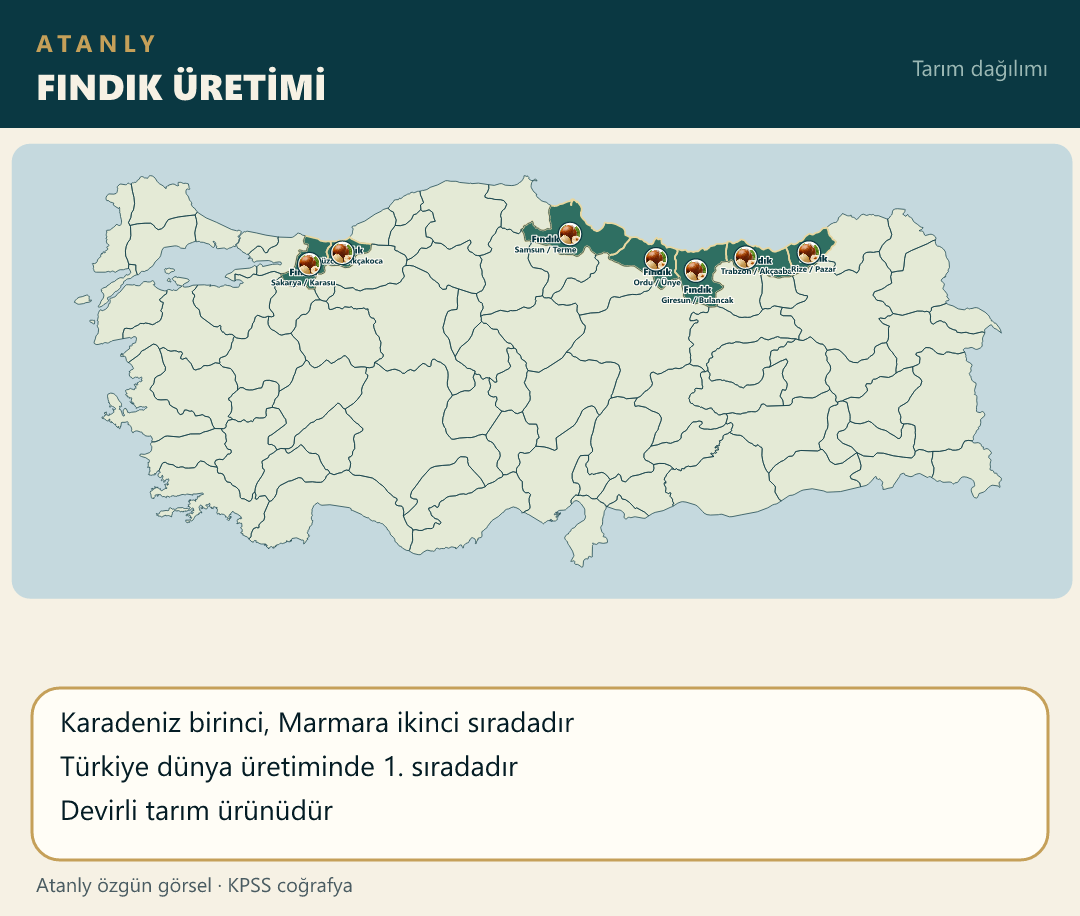
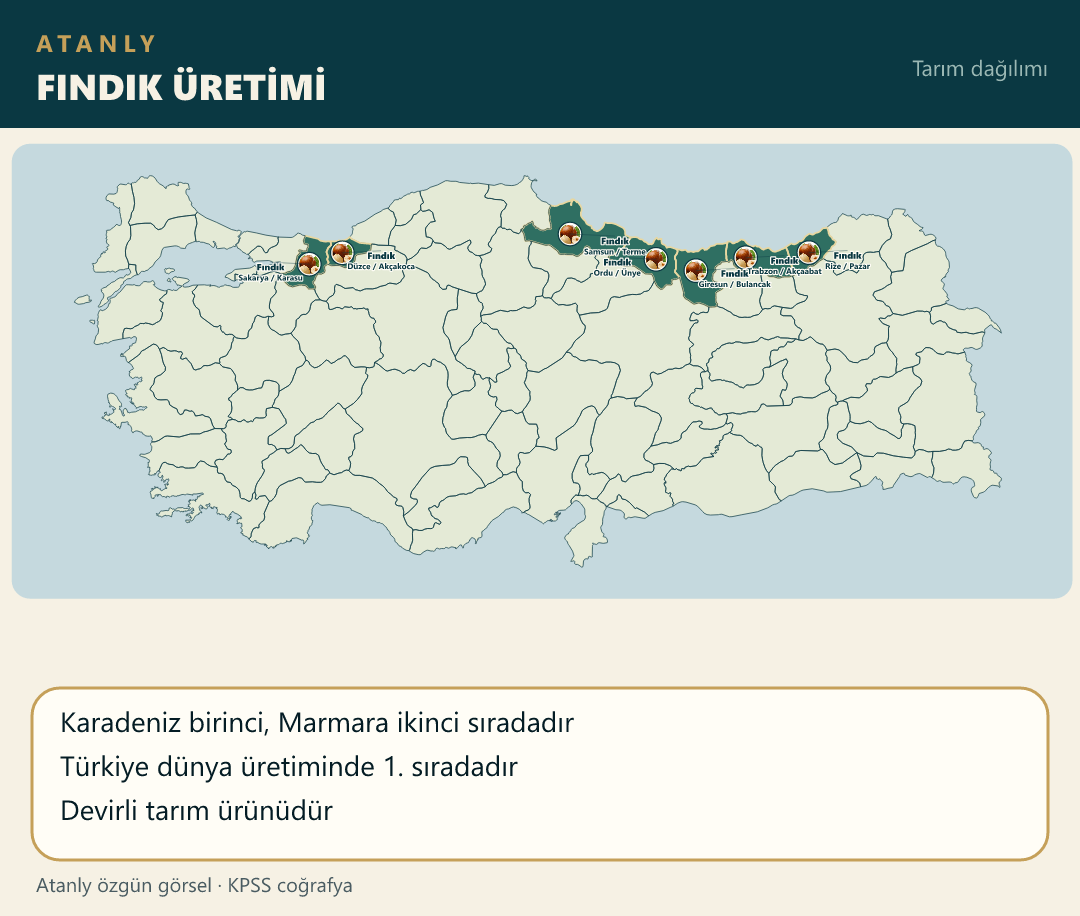
Keep hazelnut labels beside pins so they do not cover each other.

Changed region(s): [[0.4889, 0.2445, 0.7944, 0.3362], [0.2139, 0.2751, 0.3972, 0.3362]]

diff --git a/scripts/build-atanly-maps.js b/scripts/build-atanly-maps.js
@@ -411,13 +411,31 @@ function spreadSameCell(pts) {
 
 function clampPhotoLabel(p) {
     if (p.minX == null) return;
-    var padX = 22, padY = 14;
-    var lx = p.pinX + (p.ldx || 0);
-    var ly = p.pinY + (p.ldy != null ? p.ldy : 0);
-    if (lx < p.minX + padX) p.ldx = p.minX + padX - p.pinX;
-    if (lx > p.maxX - padX) p.ldx = p.maxX - padX - p.pinX;
-    if (ly < p.minY + padY) p.ldy = p.minY + padY - p.pinY;
-    if (ly > p.maxY - padY) p.ldy = p.maxY - padY - p.pinY;
+    var minOff = 28;
+    function inside(x, y) {
+        return x >= p.minX + 12 && x <= p.maxX - 12 && y >= p.minY + 12 && y <= p.maxY - 12;
+    }
+    var tries = [
+        [p.ldx || 0, p.ldy != null ? p.ldy : 24],
+        [0, 30], [0, -26],
+        [42, 8], [-42, 8], [42, 20], [-42, 20],
+        [50, 0], [-50, 0], [36, -16], [-36, -16]
+    ];
+    var i, dx, dy, x, y;
+    for (i = 0; i < tries.length; i++) {
+        dx = tries[i][0];
+        dy = tries[i][1];
+        if (Math.hypot(dx, dy) < minOff) continue;
+        x = p.pinX + dx;
+        y = p.pinY + dy;
+        if (inside(x, y)) {
+            p.ldx = dx;
+            p.ldy = dy;
+            return;
+        }
+    }
+    p.ldx = (p.pinX - p.minX) <= (p.maxX - p.pinX) ? 38 : -38;
+    p.ldy = 6;
 }
 
 function spreadPhotoLabels(pts) {
@@ -537,7 +555,7 @@ function cropMap(provs, opts) {
     var H = factsY + facts.h + 28;
     var labels = labelsOnMap(pts);
     var overlay = iconsOnMap(pts, topicIcon(opts.file));
-    var body = mapBlock(provs, landPaths(provs, hi, C.landHi) + labels + overlay) + facts.svg;
+    var body = mapBlock(provs, landPaths(provs, hi, C.landHi) + overlay + labels) + facts.svg;
     return frame(H, opts.title, opts.kicker || "Tarım dağılımı", body);
 }
 
@@ -629,13 +647,13 @@ function main() {
             facts: ["Trakya klasik üretim bölgesidir", "İntansif tarım ürünlerindendir"] },
         { file: "findik.jpg", title: "FINDIK ÜRETİMİ", urun: "Fındık",
             noktalar: [
-                { il: "Sakarya", ilce: "Karasu", ldx: -22, ldy: 24 },
-                { il: "Düzce", ilce: "Akçakoca", ldx: 26, ldy: 22 },
-                { il: "Samsun", ilce: "Terme", ldx: -24, ldy: 24 },
-                { il: "Ordu", ilce: "Ünye", ldx: 10, ldy: 26 },
-                { il: "Giresun", ilce: "Bulancak", ldx: -22, ldy: 26 },
-                { il: "Trabzon", ilce: "Akçaabat", ldx: 12, ldy: 26 },
-                { il: "Rize", ilce: "Pazar", ldx: 34, ldy: 20 }
+                { il: "Sakarya", ilce: "Karasu", ldx: -52, ldy: 8 },
+                { il: "Düzce", ilce: "Akçakoca", ldx: 52, ldy: 8 },
+                { il: "Samsun", ilce: "Terme", ldx: 44, ldy: 10 },
+                { il: "Ordu", ilce: "Ünye", ldx: -46, ldy: 8 },
+                { il: "Giresun", ilce: "Bulancak", ldx: 46, ldy: 10 },
+                { il: "Trabzon", ilce: "Akçaabat", ldx: -44, ldy: 10 },
+                { il: "Rize", ilce: "Pazar", ldx: 50, ldy: 8 }
             ],
             facts: ["Karadeniz birinci, Marmara ikinci sıradadır", "Türkiye dünya üretiminde 1. sıradadır", "Devirli tarım ürünüdür"] },
         { file: "cay.jpg", title: "ÇAY ÜRETİMİ", urun: "Çay",

diff --git a/notlar/cografya-18-not.js b/notlar/cografya-18-not.js
@@ -223,7 +223,7 @@ window.cografya_18_notlari = [
         </div>
         <!-- 🗺 HARİTA / RESİM ALANI -->
             <div class="mt-4 overflow-hidden rounded-xl border border-blue-200 dark:border-blue-700/50 bg-white dark:bg-slate-800 p-2">
-                <img src="./src/img/findik.jpg?v=14" alt="FINDIK Haritası" class="w-full h-auto rounded-lg object-contain" loading="lazy">
+                <img src="./src/img/findik.jpg?v=15" alt="FINDIK Haritası" class="w-full h-auto rounded-lg object-contain" loading="lazy">
             </div>
     </div>
     `,

diff --git a/index.html b/index.html
@@ -116,7 +116,7 @@
     <script src="notlar/cografya-15-not.js?v=9"></script>
     <script src="notlar/cografya-16-not.js?v=3"></script>
     <script src="notlar/cografya-17-not.js?v=3"></script>
-    <script src="notlar/cografya-18-not.js?v=14"></script>
+    <script src="notlar/cografya-18-not.js?v=15"></script>
     <script src="notlar/cografya-19-not.js?v=18"></script>
     <script src="notlar/cografya-20-not.js?v=1"></script>
     <script src="notlar/cografya-21-not.js?v=4"></script>
